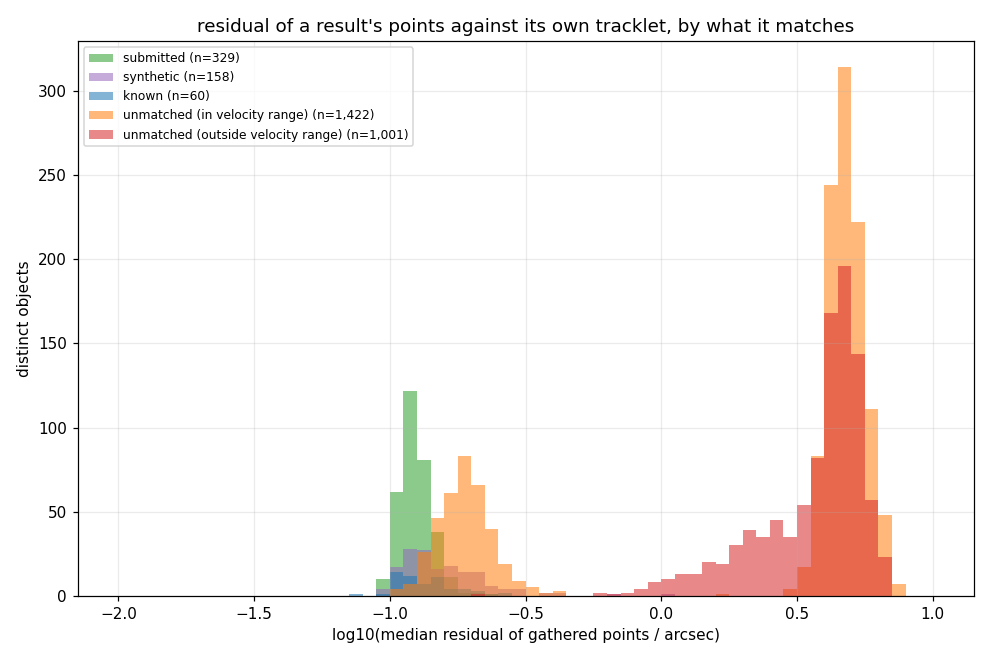
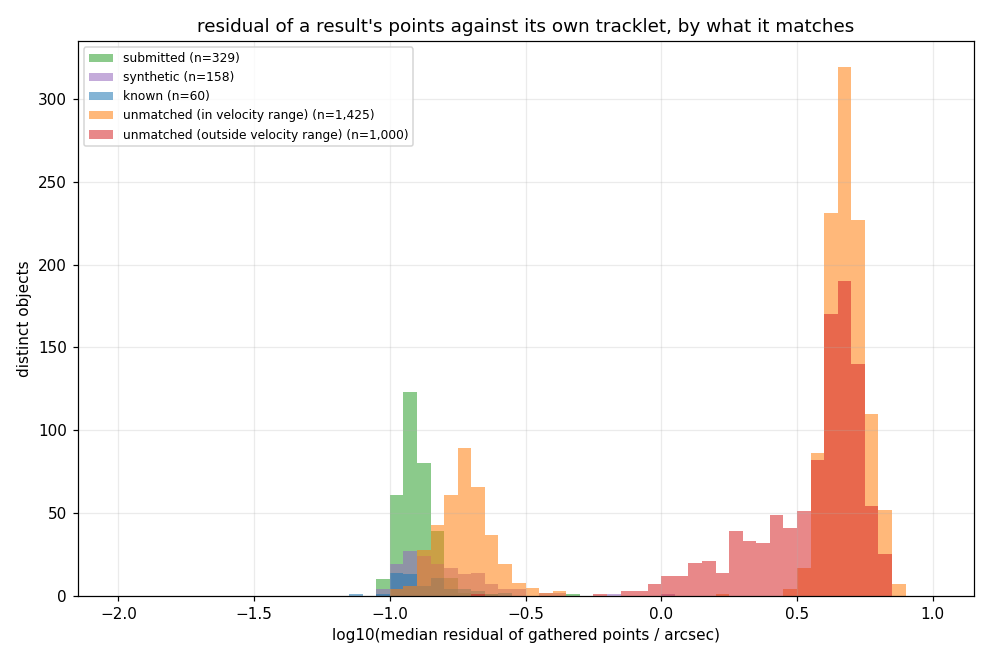
Regenerate docs/results and the night 20190402 plots on the VR searches (#28)
Funnel and legacy-vs-VR comparison in docs/results/README.md (VR: 275,269 results, 265,306 distinct, 66,302
putative real; legacy-only dedup reproduces the page's old 265,685), and the sigma_v / residuals / magnitudes
plots for the survey and the night's five plots, all with --band VR. completeness.png follows.

diff --git a/docs/results/README.md b/docs/results/README.md
@@ -1,50 +1,68 @@
-# Full-survey results (#15)
+# Full-survey results (#15, #28)
 
-Summary plots and the funnel table for deep-asteroids' own ingest of the
-full survey's find-asteroids results (5,573 runs, copied from salad's
-database), crossmatched against submitted MPC observations, mpchecker
-ephemerides and synthetic objects. Regenerate with `results/full_survey_summary.sh`
-(see `results/README.md`).
+Summary plots and the funnel table for deep-asteroids' full-survey results of the **band='VR'** searches:
+5,572 searches re-executed from the Butler `differenceExp` images (#28, `results/search_backfill_vr.sh`; 5,566 have
+results), crossmatched against submitted MPC observations, mpchecker ephemerides and synthetic objects. The legacy
+(undefined-band) searches, salad's 5,573 runs copied from its database, stay in the same database and are compared
+with the VR ones below. Every stage is run per band (`--band`), so the two are never mixed. Regenerate with
+`results/full_survey_summary.sh` (see `results/README.md`).
 
 ## Funnel
 
-Computed at the default radii (2" for submitted, synthetic and known) over the
-original (non-`-VR`), salad-ingested runs: the 5,568 runs that have results
-(their 276,797 results). The `-VR` re-executions (#28) are not used here; the
-survey will move over to them in a later step.
+Computed at the default radii (2" for submitted, synthetic and known), over the VR searches:
 
 | group | objects | putative real | fraction |
 |---|---:|---:|---:|
-| submitted | 35,297 | 33,868 | 96.0% |
-| synthetic | 11,831 | 9,170 | 77.5% |
-| known (mpchecker) | 4,188 | 3,885 | 92.8% |
-| unmatched (in velocity range) | 106,372 | 19,395 | 18.2% |
-| unmatched (outside velocity range) | 107,527 | 0 | 0.0% |
-| **total distinct objects** | **265,215** | **66,318** | **25.0%** |
+| submitted | 35,299 | 33,869 | 95.9% |
+| synthetic | 11,798 | 9,167 | 77.7% |
+| known (mpchecker) | 4,189 | 3,886 | 92.8% |
+| unmatched (in velocity range) | 106,187 | 19,380 | 18.3% |
+| unmatched (outside velocity range) | 107,833 | 0 | 0.0% |
+| **total distinct objects** | **265,306** | **66,302** | **25.0%** |
 
-276,797 results in total, de-duplicated to 265,215 distinct objects.
-**Putative new** (putative real and matching nothing): 19,395. The
+275,269 results in total, de-duplicated to 265,306 distinct objects.
+**Putative new** (putative real and matching nothing): 19,380. The
 putative-real cut is **sigma_v** (the fitted tracklet's velocity
 uncertainty, `hypot(sigma_vra, sigma_vdec)`) below `0.00025` deg/day, and
 speed strictly inside the search's velocity range -- it keeps 96% of
 submitted objects, 78% of synthetic, 93% of known.
 
-**The known radius is now 2", not 10"** (#42): at 10" a track that merely
-crosses an ephemeris, and diverges from it, could match. Against the same
-runs at 10", only the known-dependent rows change: known 4,485 -> 4,188,
-unmatched in range 106,111 -> 106,372 and putative new 19,245 -> 19,395. The
-submitted and synthetic rows and the 66,318 putative real in total are
-unchanged.
+## Legacy vs VR
 
-**Distinct objects.** This page used to report 265,685 distinct objects
-(and 107,949 unmatched outside the velocity range); a fresh run over the same
-runs gives 265,215 (and 107,491), with identical putative-real counts. De-duplication now
-clusters the `-VR` re-executions together with the original results, and a
-cluster is counted only if its authoritative result is in one of the runs
-used here. Clusters whose authoritative result is a `-VR` one are dropped even
-when an original result is a member, so the distinct-object counts here
-run about 470 (0.2%) below the original-only value. The result and
-putative-real counts are not affected.
+The same funnel for the legacy searches (`--band none`), next to the VR one:
+
+| | legacy | VR | VR - legacy |
+|---|---:|---:|---:|
+| results | 276,797 | 275,269 | -1,528 |
+| distinct objects | 265,685 | 265,306 | -379 |
+| submitted | 35,298 | 35,299 | +1 |
+| synthetic | 11,838 | 11,798 | -40 |
+| known (mpchecker) | 4,189 | 4,189 | 0 |
+| unmatched (in velocity range) | 106,374 | 106,187 | -187 |
+| unmatched (outside velocity range) | 107,986 | 107,833 | -153 |
+| putative real: total | 66,318 | 66,302 | -16 |
+| putative real: submitted | 33,868 | 33,869 | +1 |
+| putative real: synthetic | 9,170 | 9,167 | -3 |
+| putative real: known | 3,885 | 3,886 | +1 |
+| putative new | 19,395 | 19,380 | -15 |
+
+The VR searches reproduce the legacy ones to well under 1% in every row. They search the same exposures
+(`results/legacy_vs_vr_parity.py`: all 435,908 exposures salad searched, on the same image files, are searched
+by VR), with the same parameters, and the detection stage agrees on 99.998% of results; the refinement stage
+differs in a minority of results (PR #45), which is where the 0.55% fewer results and the small differences above
+come from. The 1,250 searches that skipped an image (22,499 detector-exposures with no `differenceExp` in the
+Butler registry) skipped the same ones salad did.
+
+**The known radius is 2", not 10"** (#42): at 10" a track that merely crosses an ephemeris, and diverges from
+it, could match. On the VR results at 10", only the known-dependent rows change: known 4,471 -> 4,189, unmatched
+in range 105,941 -> 106,187 and putative new 19,238 -> 19,380.
+
+**Distinct objects are counted per band.** `dedup` clusters a pointing group's results, and the legacy and VR
+searches cover the same sky, so clustering them together merges the same object found by both and makes a
+band's distinct-object count depend on which band's result won the cluster (it gave 265,215 for the legacy
+searches instead of 265,685). `dedup --band B --force`, once per band, clusters each on its own: the legacy
+result above, 265,685, is the number this page has always reported (the 50 results of one run with no search
+definition count as one object each).
 
 This replaces the earlier median-residual/`n_gathered` cut: salad's own
 further analysis (`docs/ANALYZE_RESULT_STATS.md` in the salad repo) found
@@ -80,6 +98,7 @@ as a diagnostic; it is no longer the cut.
   by the 2" known radius, which does not affect the synthetic radius).
 
 Produced from `/gscratch/dirac/stevengs/claude/deep_asteroids_full_survey.sqlite`
-via `deep-asteroids plot sigma-v/residuals/magnitudes/completeness` and
-`deep-asteroids summary` (defaults: 2" submitted/synthetic radius, 2"
-known radius, sigma_v < 0.00025 deg/day, authoritative objects only).
+via `deep-asteroids plot sigma-v/residuals/magnitudes/completeness --band VR` and
+`deep-asteroids summary --band VR` (`--band none` for the legacy column; defaults: 2" submitted/synthetic/known
+radius, sigma_v < 0.00025 deg/day, authoritative objects only), after `statistics`, `crossmatch` and
+`dedup --force` were run once per band.
